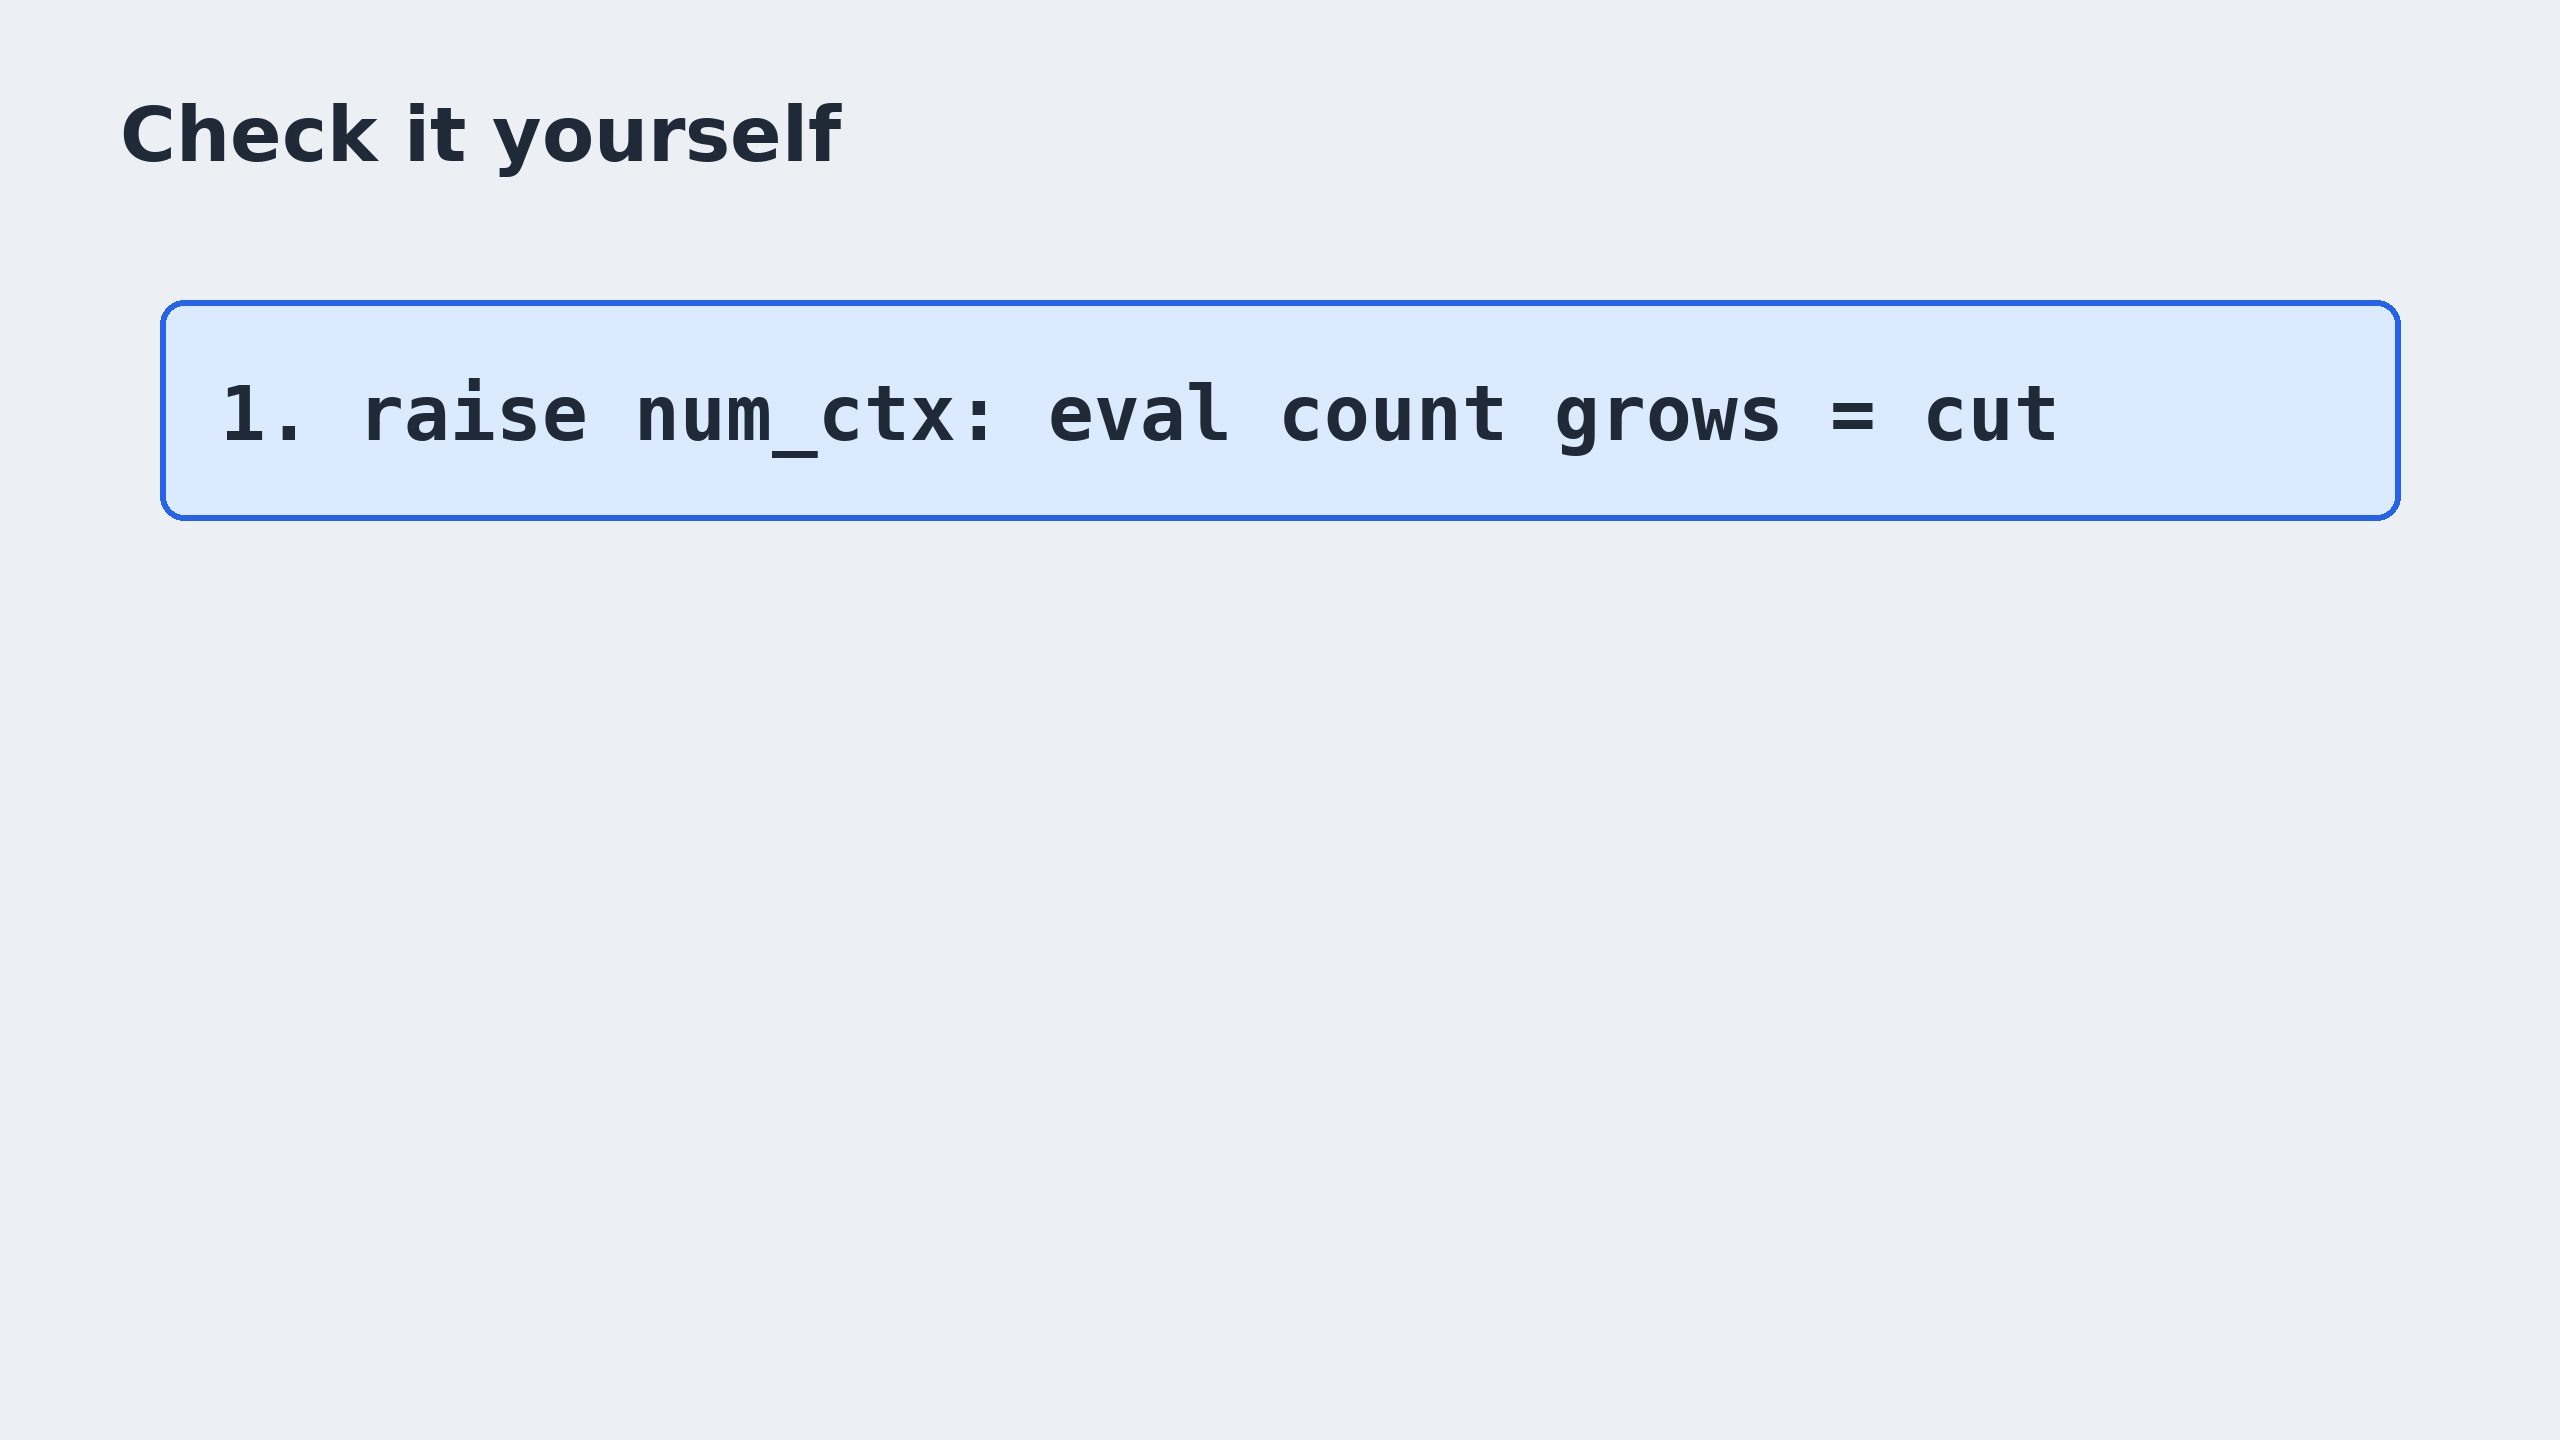
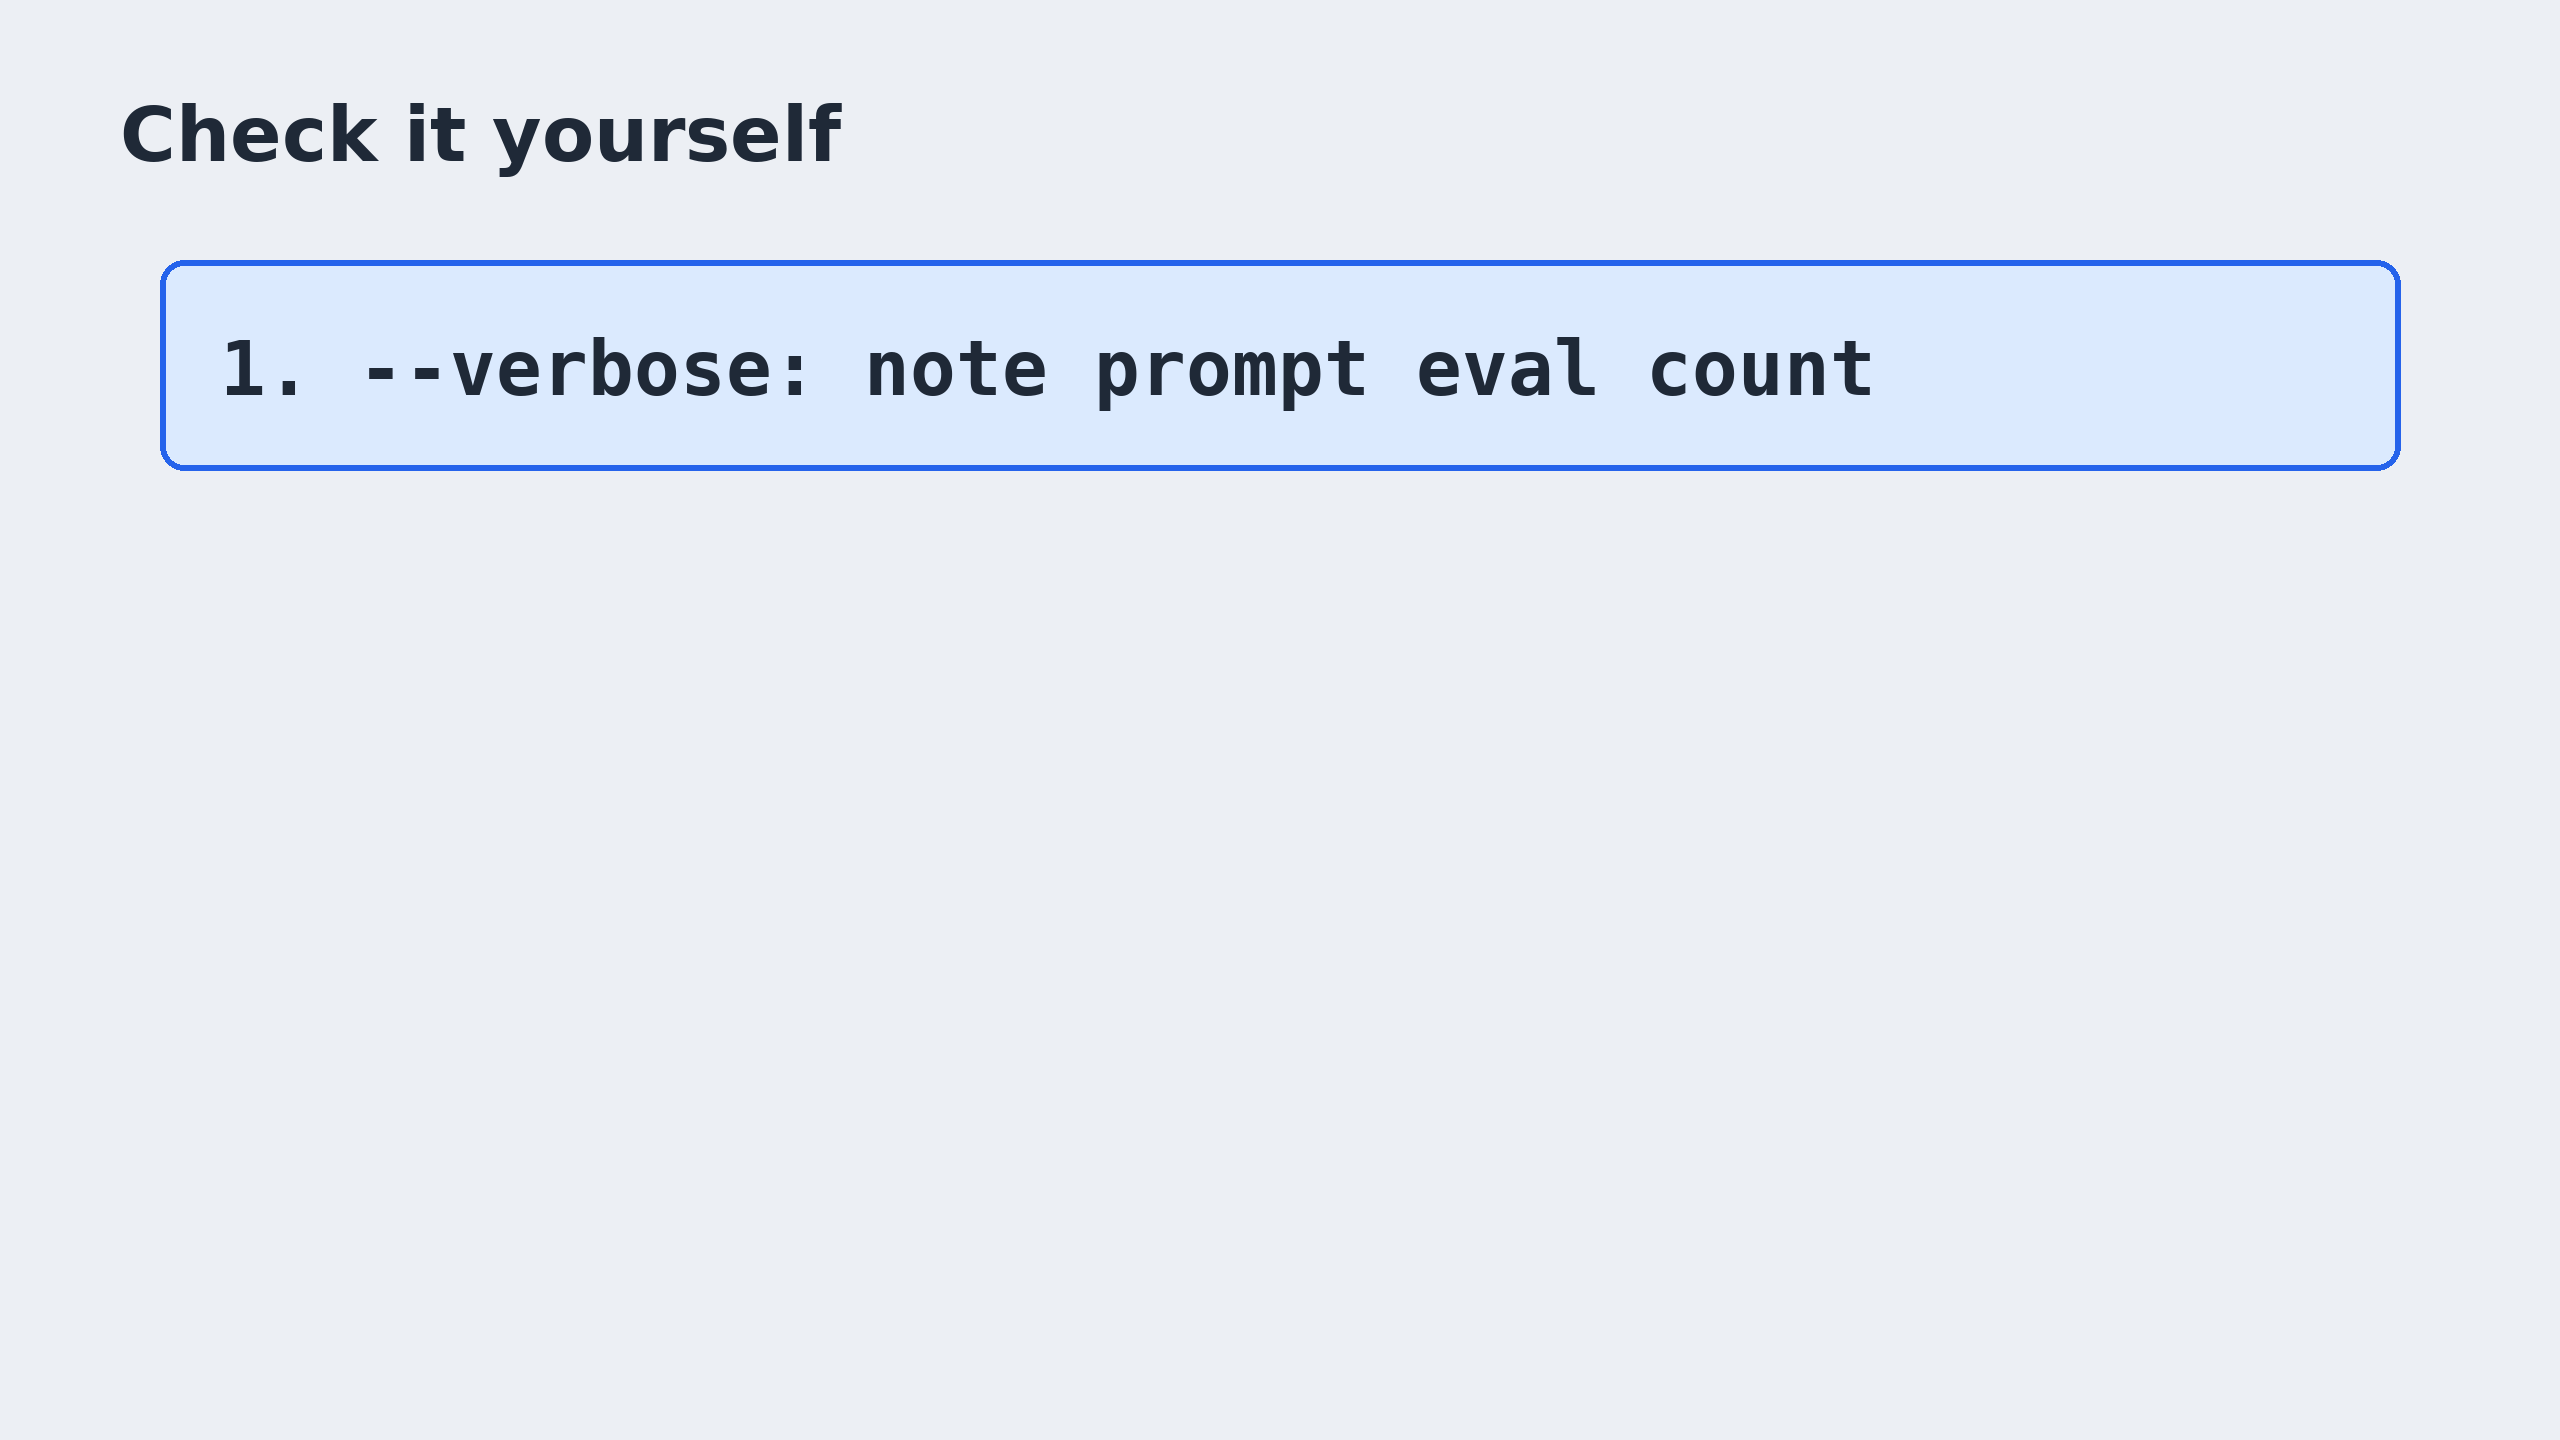
Part 13 cut 3 cards: card-bar-3..5 (F6: the 9 runs as a building table, counts read from out/p13/trunc.jsonl, n = 3 per API asserted: line 1 0 of 9, last line 9 of 9), ov-sub (a small Like + Subscribe lower-third, no Next), card-rule-1..4 (the --verbose step added)

Changed region(s): [[0.0625, 0.1562, 0.9375, 0.375]]

diff --git a/video/draw_p13.py b/video/draw_p13.py
@@ -6,11 +6,13 @@ grey. Text 44 px+. Numbers only from SCRIPT-13.md section 5 (NUMBERS).
   card-desk-1..4   F3: desk = graphics card memory, books = layers; the notepad; tokens written; "KV cache"
   card-window-1..3 F4: numbered lines; the bracket "context window = num_ctx"; the torn-out lines (front), end kept
   card-bar-1..2    F6: a bar of 9,644 tokens; the first 5 + the end lit (2,051), the middle grey with K-77 inside
+  card-bar-3..5    F6 (cut 3): the 9 runs table from out/p13/trunc.jsonl: frame, line 1 0 of 9, last line 9 of 9
+  ov-sub           F10 (cut 3): a small Like + Subscribe lower-third, no Next
   card-fix-1..3    F8: API options.num_ctx; OLLAMA_CONTEXT_LENGTH; (grey) or fail loudly: next
   ov-like          F10: RGBA lower-fifth band: like + subscribe for Part 14
   card-recap-1..2  F12: the desk again: a bigger notepad, books to the cabinet (system memory), the speed dial drops
   card-q8          F13: 16-bit -> 8-bit numbers (the notepad's handwriting smaller)
-  card-rule-1..3   F15: the three rule lines, one at a time
+  card-rule-1..4   F15: the four rule lines, one at a time (cut 3: --verbose first)
   card-end         F16: Gemma Series Part 13, the Part 14 tile, the playlist (room left for the end screen)
 Run in the draw image:  docker run --rm -v "<lab>:/lab" -w /lab cad3way-draw:1 python3 video/draw_p13.py"""
 import os
@@ -199,6 +201,68 @@ def card_bar():
         save(im, f'card-bar-{step}')
 
 
+def trunc_counts():
+    """F6 (cut 3): E4B at the default window, temperature 0, no extra options: right answers per position and API,
+    from out/p13/trunc.jsonl (RESULTS.md P-TRUNC rows 1-6). n must be 9 per position (3 APIs x 3 runs)."""
+    import json
+    out = {}
+    for ln in open(os.path.join(LAB, 'out', 'p13', 'trunc.jsonl'), encoding='utf-8'):
+        r = json.loads(ln)
+        if r['model'] != 'e4b' or not str(r['num_ctx']).startswith('default') or r['extra'] or r['temperature'] != 0:
+            continue
+        c = out.setdefault(r['position'], {}).setdefault(r['endpoint'], [0, 0])
+        c[0] += bool(r['correct'])
+        c[1] += 1
+    for pos in ('start', 'end'):
+        assert sorted(out[pos]) == ['chat', 'generate', 'openai'] and all(v[1] == 3 for v in out[pos].values()), out
+    return out
+
+
+def card_runs():
+    """F6 cut 3: the 9 runs as a table that builds as it is spoken: 3 = the frame (APIs, positions, empty cells),
+    4 = line 1's counts (0 of 9), 5 = the last line's (9 of 9)."""
+    c = trunc_counts()
+    apis = ['chat', 'generate', 'openai']
+    rows = [('start', 'code on line 1', ORANGE, ORANGEFILL), ('end', 'code on the last line', GREEN, GREENFILL)]
+    for step in (3, 4, 5):
+        im, d = canvas('Gemma 4 E4B, default window: 3 APIs x 3 runs')
+        x0, cw, y0, rh = 160, 340, 330, 230
+        xs = [x0 + 760 + k * cw for k in range(3)]
+        tot_x = xs[-1] + cw + 20
+        for k, a in enumerate(apis):
+            text(d, (xs[k] + cw / 2, y0 + 60), a, 56, fill=GREY, path=M, anchor='ms')
+        text(d, (tot_x + 190, y0 + 60), 'found', 56, fill=GREY, anchor='ms')
+        for i, (pos, name, col_, fill) in enumerate(rows):
+            y = y0 + 120 + i * (rh + 40)
+            shown = (step >= 4 and i == 0) or step >= 5
+            d.rounded_rectangle([x0, y, 2400, y + rh], 24, fill=(fill if shown else DONEFILL),
+                                outline=(col_ if shown else DONE), width=6)
+            text(d, (x0 + 40, y + rh / 2 + 22), name, 60, fill=INK, anchor='ls')
+            if shown:
+                for k, a in enumerate(apis):
+                    r, n = c[pos][a]
+                    text(d, (xs[k] + cw / 2, y + rh / 2 + 26), f'{r} of {n}', 72, fill=INK, path=M, anchor='ms')
+                r = sum(v[0] for v in c[pos].values())
+                n = sum(v[1] for v in c[pos].values())
+                text(d, (tot_x + 190, y + rh / 2 + 30), f'{r} of {n}', 96, fill=col_, anchor='ms')
+        text(d, (x0, 1330), 'the same prompt, the same code: only its place changed', 52, fill=GREY, path=R, anchor='ls')
+        save(im, f'card-bar-{step}')
+
+
+def ov_sub():
+    """F10 cut 3: a small lower-third (Like + Subscribe), no 'Next' (that is on the end card only): the footage keeps
+    playing above it, so it does not read as the end."""
+    im = Image.new('RGBA', (W, H), (0, 0, 0, 0))
+    d = ImageDraw.Draw(im)
+    d.rounded_rectangle([60, 1226, 1000, 1376], 28, fill=(255, 255, 255, 236), outline=BLUE + (255,), width=5)
+    d.rounded_rectangle([90, 1248, 410, 1354], 22, fill=BLUEFILL + (255,), outline=BLUE + (255,), width=5)
+    text(d, (250, 1322), 'Like', 60, fill=BLUE, anchor='ms')
+    d.rounded_rectangle([440, 1248, 970, 1354], 22, fill=(204, 0, 0, 255))
+    text(d, (705, 1322), 'Subscribe', 60, fill=(255, 255, 255), anchor='ms')
+    os.makedirs(OUT, exist_ok=True)
+    im.save(os.path.join(OUT, 'ov-sub.png'))
+
+
 def card_fix():
     lines = [('API', '"options": {"num_ctx": 16384}'), ('server', 'OLLAMA_CONTEXT_LENGTH=16384'),
              ('or', 'fail loudly: next')]
@@ -257,16 +321,17 @@ def card_q8():
 
 
 def card_rule():
-    lines = ['1. raise num_ctx: eval count grows = cut', '2. num_ctx bigger than the prompt',
-             '3. log: offloaded N/M (E2B, E4B, 12B)']
-    for step in (1, 2, 3):
+    """F15 (cut 3: four lines, the --verbose step was said but not on the card)."""
+    lines = ['1. --verbose: note prompt eval count', '2. raise num_ctx: count grows = cut',
+             '3. num_ctx bigger than the prompt', '4. log: offloaded N/M (E2B, E4B, 12B)']
+    for step in (1, 2, 3, 4):
         im, d = canvas('Check it yourself')
         for k in range(step):
-            y = 300 + k * 300
+            y = 260 + k * 270
             cur = (k == step - 1)
-            d.rounded_rectangle([160, y, 2400, y + 220], 24, fill=(BLUEFILL if cur else DONEFILL),
+            d.rounded_rectangle([160, y, 2400, y + 210], 24, fill=(BLUEFILL if cur else DONEFILL),
                                 outline=(BLUE if cur else DONE), width=6)
-            text(d, (220, y + 140), lines[k], 76, fill=(INK if cur else GREY), path=M, anchor='ls')
+            text(d, (220, y + 135), lines[k], 76, fill=(INK if cur else GREY), path=M, anchor='ls')
         save(im, f'card-rule-{step}')
 
 
@@ -284,7 +349,7 @@ def card_end():
 
 
 if __name__ == '__main__':
-    card_f0(); card_sizes(); card_desk(); card_window(); card_bar(); card_fix(); ov_like(); card_recap(); card_q8()
+    card_f0(); card_sizes(); card_desk(); card_window(); card_bar(); card_runs(); card_fix(); ov_like(); ov_sub(); card_recap(); card_q8()
     card_rule(); card_end()
     print('cards:', sorted(os.listdir(OUT)))
     if PROBLEMS:
